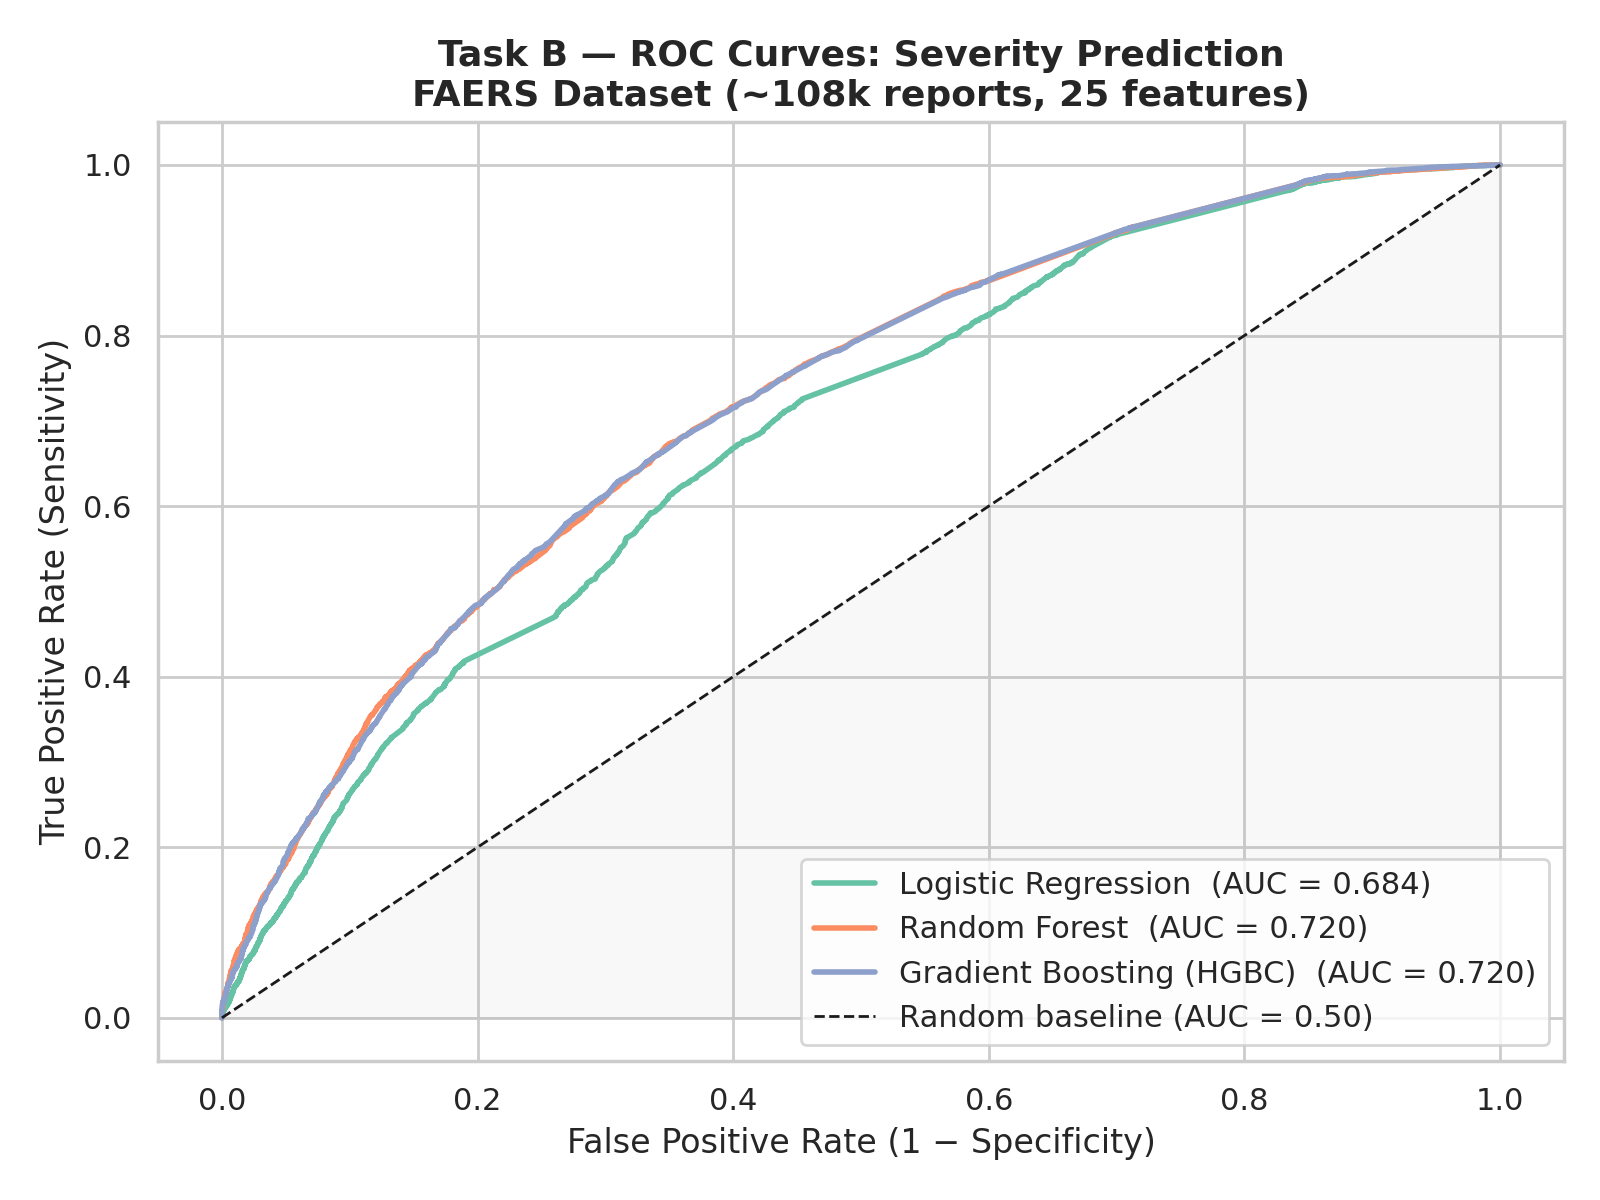
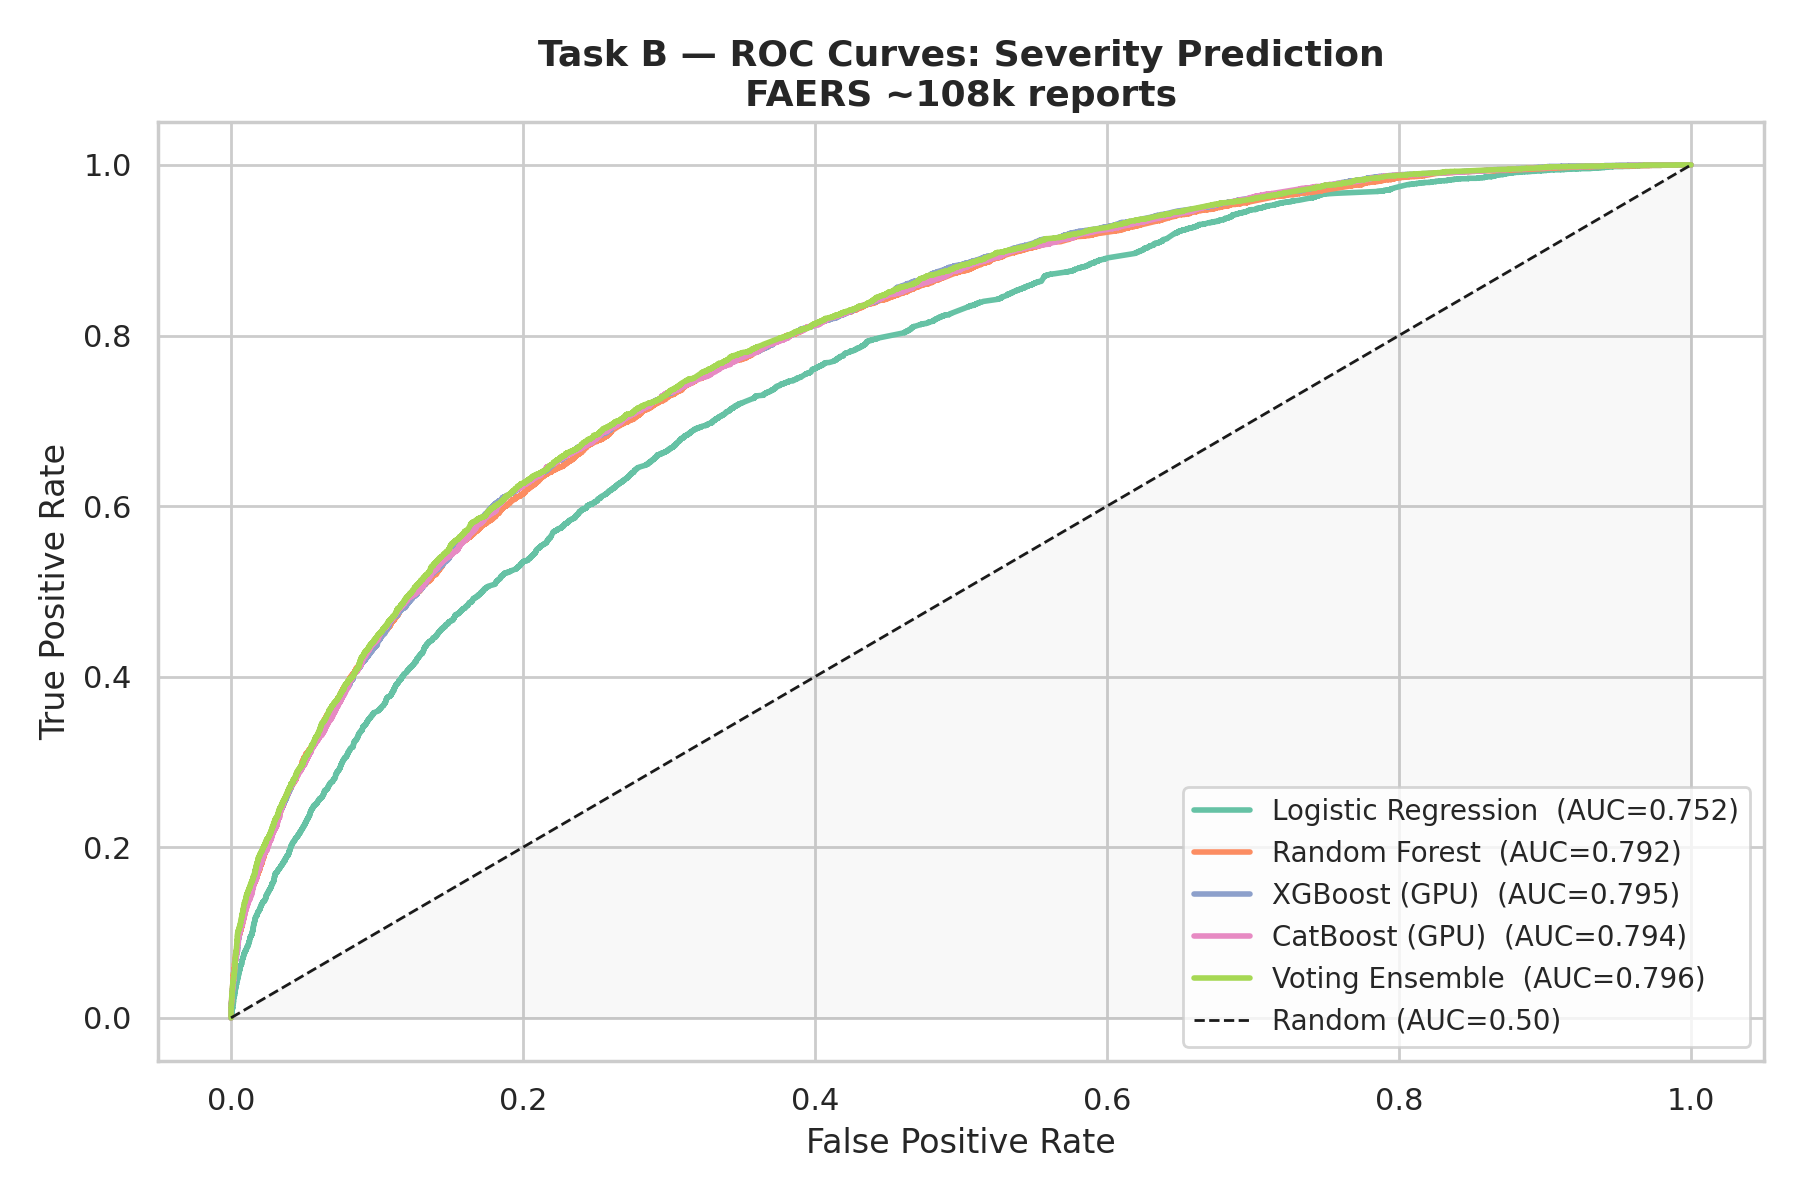
feat: Task B final clean model - AUC 0.720→0.796 through 4 iterations
Feature engineering progression (25→71 features):
  iter1: +MedDRA reaction flags (top-30, clean) → AUC 0.787
  iter2: +reporter qualification (physician/consumer) → AUC 0.793
  iter3: +drug characterization (suspect/concomitant) → AUC 0.796
  leakage check: rxn_hospitalisation excluded (cost: -0.9% AUC)

Models: LR + RF + XGBoost(GPU 2.6s) + CatBoost(GPU 2.6s) + Voting Ensemble
Best clean model: Voting Ensemble AUC=0.7962, F1-severe=0.575, Recall-severe=0.648

New plots: feature_importance_xgb, feature_importance_catboost

diff --git a/taskB/2B_preprocessing.py b/taskB/2B_preprocessing.py
@@ -28,13 +28,31 @@ RULES_GLOB   = "taskA/filtered_association_rules/*.csv"
 OUTPUT_PATH  = "taskB/task_b_features.parquet"
 LIFT_THRESHOLD = 2.0
 TOP_N_DRUGS    = 15
-TOP_N_REACTIONS = 15
+TOP_N_REACTIONS = 50   # expand to compensate for excluded terms
 
-# Reactions that would directly leak the severity target:
-# seriousnessdeath=1 is often paired with "DEATH" reaction term — exclude.
+# Reactions excluded from features:
+# 1. Death-related terms: directly leak the severity target (seriousnessdeath=1)
+# 2. Admin/pharmacovigilance terms: not clinical reactions, add noise
 EXCLUDE_REACTIONS = {
+    # Death leakage
     "DEATH", "COMPLETED SUICIDE", "SUDDEN DEATH", "HOMICIDE",
     "ACCIDENTAL DEATH", "APPARENT DEATH",
+    # Admin/operational terms — not clinical adverse events
+    "PRODUCT DOSE OMISSION ISSUE", "INCORRECT DOSE ADMINISTERED",
+    "OFF LABEL USE", "DRUG INEFFECTIVE",
+    "PRODUCT USE IN UNAPPROVED INDICATION",
+    "PRODUCT ADMINISTERED TO PATIENT OF INAPPROPRIATE AGE",
+    "DRUG USE ISSUE", "WRONG TECHNIQUE IN DRUG USAGE PROCESS",
+    "PRODUCT QUALITY ISSUE",
+    "INAPPROPRIATE SCHEDULE OF PRODUCT ADMINISTRATION",
+    # Non-specific / meta terms
+    "NO ADVERSE EVENT", "ADVERSE DRUG REACTION", "ILLNESS",
+    "DRUG INTERACTION", "PRODUCT SUBSTITUTION ISSUE",
+    # Hospitalisation — directly encodes seriousnesshospitalization=1 (target leakage)
+    "HOSPITALISATION", "HOSPITALISATION EMERGENCY",
+    # More admin/device terms
+    "DRUG DOSE OMISSION BY DEVICE", "WRONG TECHNIQUE IN PRODUCT USAGE PROCESS",
+    "PRODUCT USE ISSUE",
 }
 
 
@@ -132,6 +150,32 @@ def _build_drug_features(df, top_n):
     return poly, flags_df, drug_sets
 
 
+def _build_drug_characterization(df):
+    """
+    Extract drug role per report: suspect (1), concomitant (2), interacting (3).
+    More suspect drugs = more complex adverse event picture.
+    """
+    drugs_exp = df[['safetyreportid', 'patient.drug']].explode('patient.drug').copy()
+    drugs_exp = drugs_exp[drugs_exp['patient.drug'].apply(lambda x: isinstance(x, dict))]
+
+    def _get_char(d):
+        return str(d.get('drugcharacterization', '')).strip()
+
+    drugs_exp['char'] = drugs_exp['patient.drug'].apply(_get_char)
+
+    num_suspect = (
+        drugs_exp[drugs_exp['char'] == '1']
+        .groupby('safetyreportid')['char'].count()
+        .rename('num_suspect_drugs')
+    )
+    num_concomitant = (
+        drugs_exp[drugs_exp['char'] == '2']
+        .groupby('safetyreportid')['char'].count()
+        .rename('num_concomitant_drugs')
+    )
+    return num_suspect, num_concomitant
+
+
 def _build_reaction_features(df, top_n, exclude=None):
     """
     Extract top-N MedDRA reaction terms as binary flags + reaction count.
@@ -177,6 +221,22 @@ def _build_reaction_features(df, top_n, exclude=None):
 
     flags_df = pd.DataFrame(flags, index=df.index)
     return num_reactions, flags_df
+
+
+def _build_reporter_features(df):
+    """
+    Encode primarysource.qualification as binary flags.
+    FAERS codes: 1=Physician, 2=Pharmacist, 3=Other HCP, 4=Lawyer, 5=Consumer.
+    Reporter type correlates with report accuracy and severity distribution.
+    """
+    qual = df.get('primarysource.qualification',
+                  pd.Series(dtype=str, index=df.index)).fillna('0').astype(str).str.strip()
+    return pd.DataFrame({
+        'reporter_physician':   (qual == '1').astype('int8'),
+        'reporter_pharmacist':  (qual == '2').astype('int8'),
+        'reporter_other_hcp':   (qual == '3').astype('int8'),
+        'reporter_consumer':    (qual == '5').astype('int8'),
+    }, index=df.index)
 
 
 def _build_interaction_features(report_ids, drug_sets, rules_glob, lift_threshold):
@@ -270,10 +330,21 @@ def build_features(
     poly, drug_flags, drug_sets = _build_drug_features(df, top_n_drugs)
     print()
 
+    # ── D2. Drug characterization ──────────────────────────────────────────
+    print("D2. Building drug characterization features (suspect/concomitant)...")
+    num_suspect, num_concomitant = _build_drug_characterization(df)
+    print(f"  Reports with suspect drugs: {len(num_suspect):,}")
+    print()
+
     # ── E. Reaction features ───────────────────────────────────────────────
     print("E. Building reaction features (MedDRA top terms)...")
     num_reactions, reaction_flags = _build_reaction_features(df, top_n_reactions)
     print()
+
+    # ── E2. Reporter features ──────────────────────────────────────────────
+    print("E2. Building reporter qualification features...")
+    reporter_flags = _build_reporter_features(df)
+    print(f"  Reporter dist: {reporter_flags.sum().to_dict()}\n")
 
     # ── F. Interaction features ────────────────────────────────────────────
     print("F. Building interaction features from Task A rules...")
@@ -292,7 +363,13 @@ def build_features(
     base['num_reactions'] = num_reactions.reindex(df['safetyreportid'].values).values
     base['num_reactions'] = base['num_reactions'].fillna(0).astype(int)
 
-    result = pd.concat([base, drug_flags, reaction_flags, interactions], axis=1)
+    base['num_suspect_drugs'] = num_suspect.reindex(df['safetyreportid'].values).values
+    base['num_suspect_drugs'] = base['num_suspect_drugs'].fillna(0).astype(int)
+
+    base['num_concomitant_drugs'] = num_concomitant.reindex(df['safetyreportid'].values).values
+    base['num_concomitant_drugs'] = base['num_concomitant_drugs'].fillna(0).astype(int)
+
+    result = pd.concat([base, drug_flags, reaction_flags, reporter_flags, interactions], axis=1)
     result.index = df['safetyreportid']
     result.index.name = 'safetyreportid'
 

diff --git a/taskB/3B_modeling.py b/taskB/3B_modeling.py
@@ -111,11 +111,13 @@ def build_pipelines(neg_count, pos_count):
         xgb_pipe = Pipeline([
             ("imputer", SimpleImputer(strategy="median")),
             ("model",   XGBClassifier(
-                n_estimators=500,
-                learning_rate=0.05,
+                n_estimators=1000,
+                learning_rate=0.02,
                 max_depth=6,
                 subsample=0.8,
                 colsample_bytree=0.8,
+                min_child_weight=5,
+                gamma=0.1,
                 scale_pos_weight=spw,
                 tree_method="hist",
                 device="cuda",
